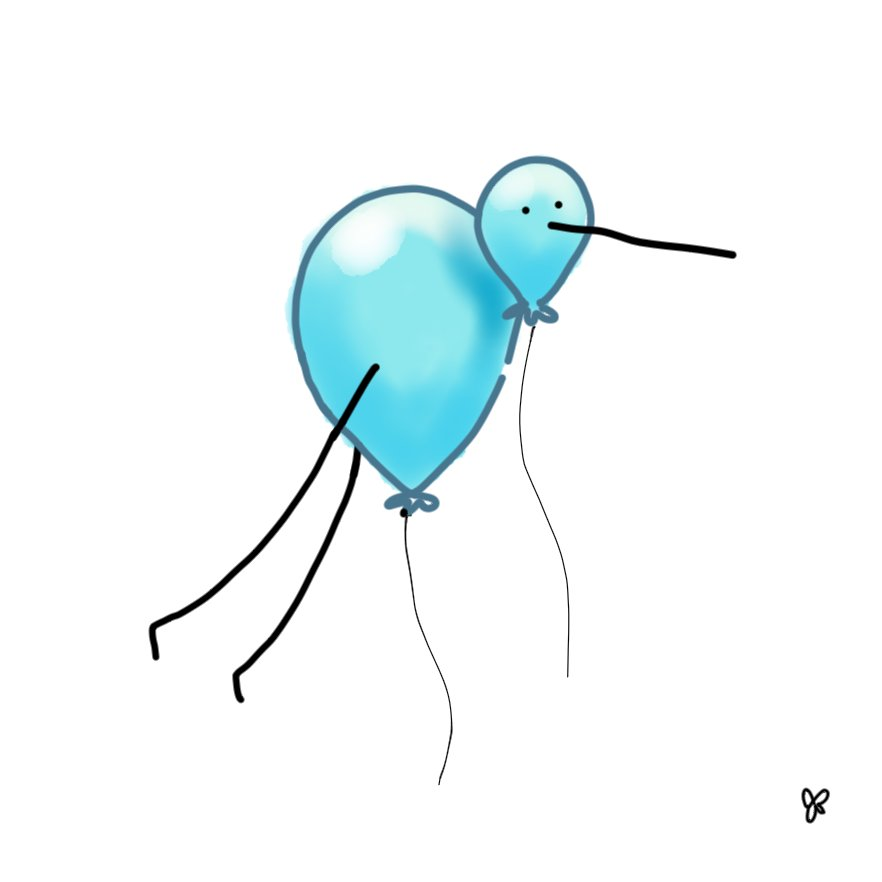
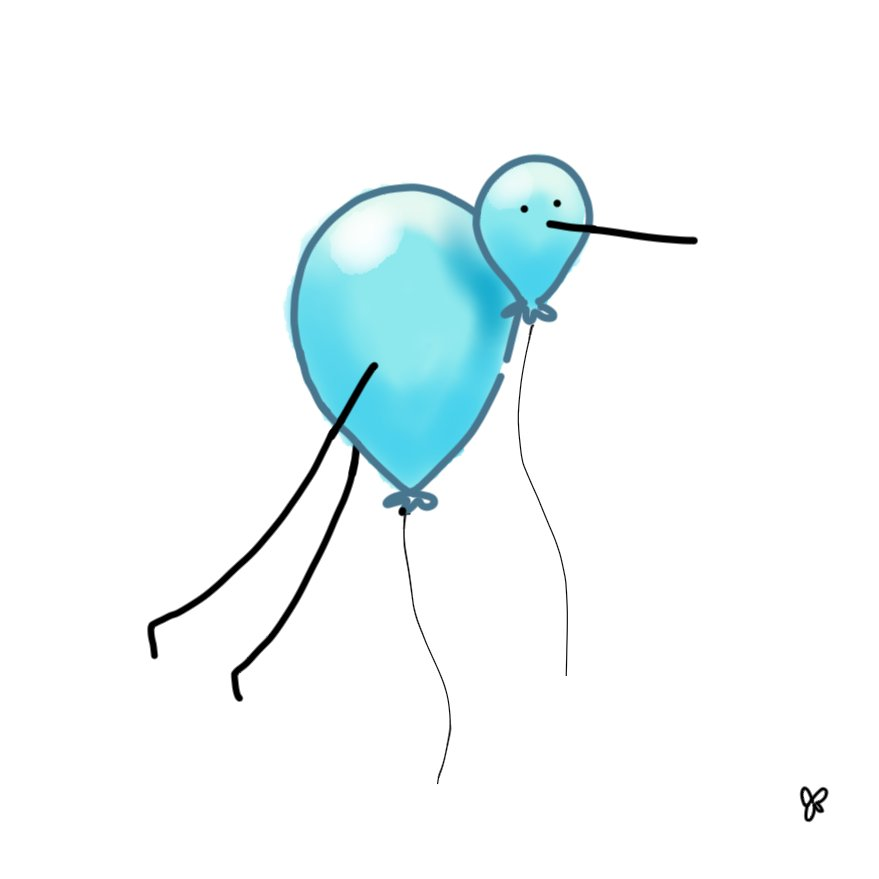
Update kiwi

diff --git a/src/app/kiwis/data.ts b/src/app/kiwis/data.ts
@@ -23,6 +23,12 @@ export const kiwisData: Record<string, ArtworkType[]> = {
     ],
     "formatcarre": [
        {
+            imageTitle: "Quel genre d'oiseau es-tu ?",
+            imageSrc:"/static/kiwis/quelgenredoiseau.jpg",
+            imageAlt: "Hommage à un certain Prokofiev.",
+            imageRatio: 1
+        },
+       {
             imageTitle: "Compte sur ses doigts",
             imageSrc:"/static/kiwis/ennui.jpg",
             imageAlt: "Il s'ennuie très vite à nouveau.",
@@ -35,21 +41,21 @@ export const kiwisData: Record<string, ArtworkType[]> = {
             imageRatio: 1
         },
        {
-            imageTitle: "Quel genre d'oiseau es-tu ?",
-            imageSrc:"/static/kiwis/quelgenredoiseau.jpg",
-            imageAlt: "Hommage à un certain Prokofiev.",
-            imageRatio: 1
-        },
-       {
             imageTitle: "Fessu",
             imageSrc:"/static/kiwis/fessu.jpg",
             imageAlt: "Tout le monde en a non ?",
             imageRatio: 1
         },
        {
-            imageTitle: "Ballons de bauderuche",
+            imageTitle: "Bauderuche",
             imageSrc:"/static/kiwis/baudruche.jpg",
             imageAlt: "Il vole enfin. Ce n'est peut être qu'un rêve.",
+            imageRatio: 1
+        },
+       {
+            imageTitle: "Cactus",
+            imageSrc:"/static/kiwis/cactus.jpg",
+            imageAlt: "Ça pique.",
             imageRatio: 1
         }
     ]
